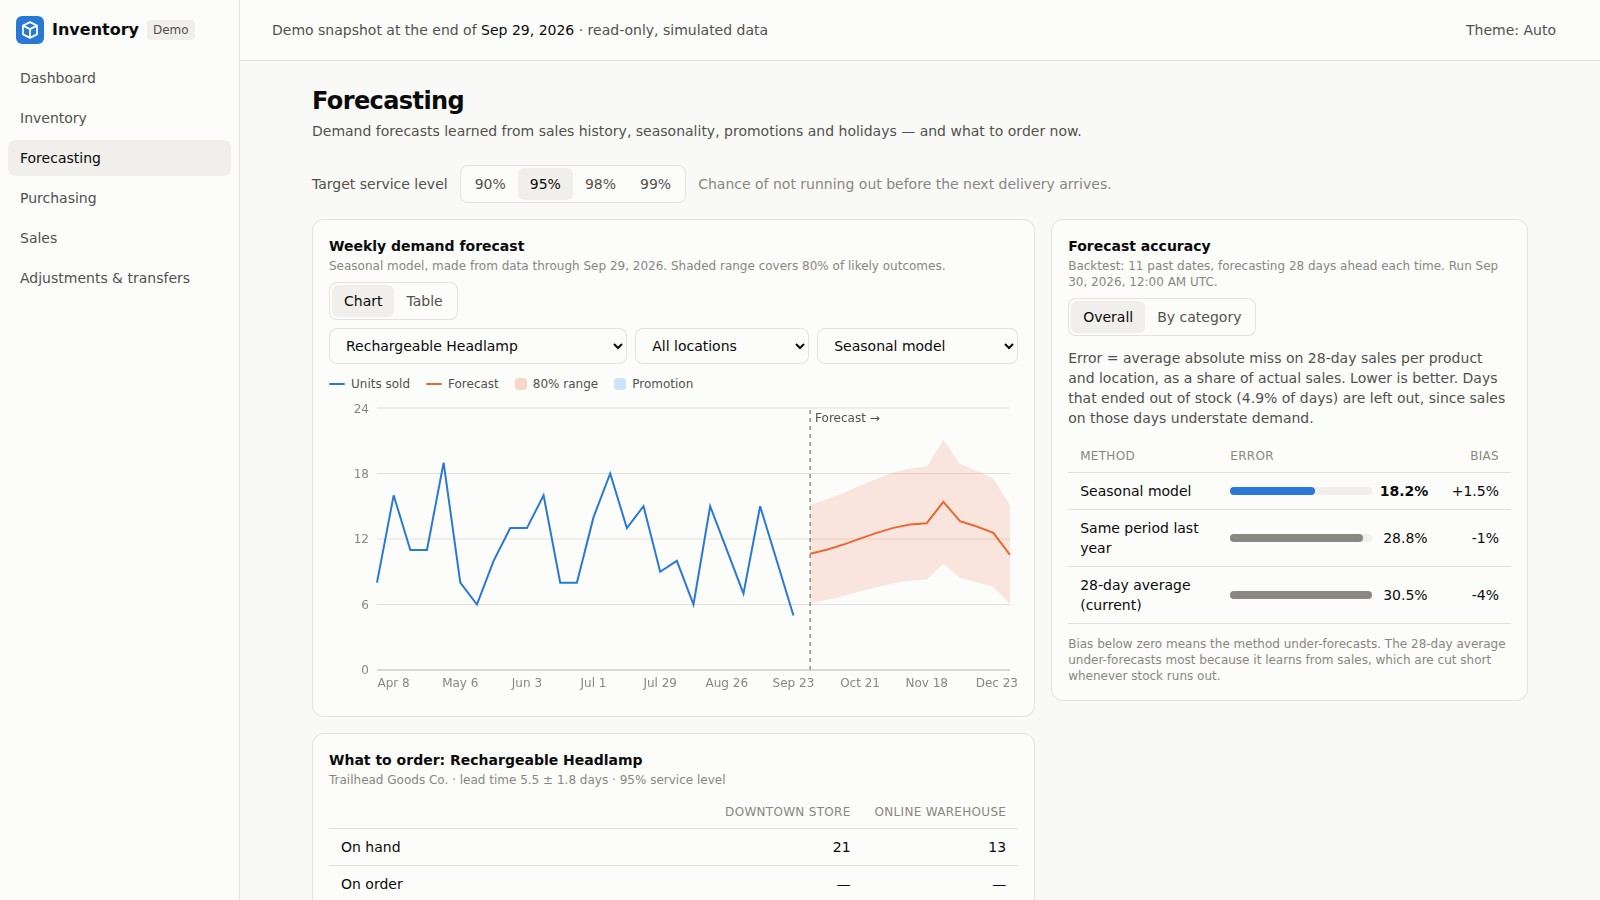
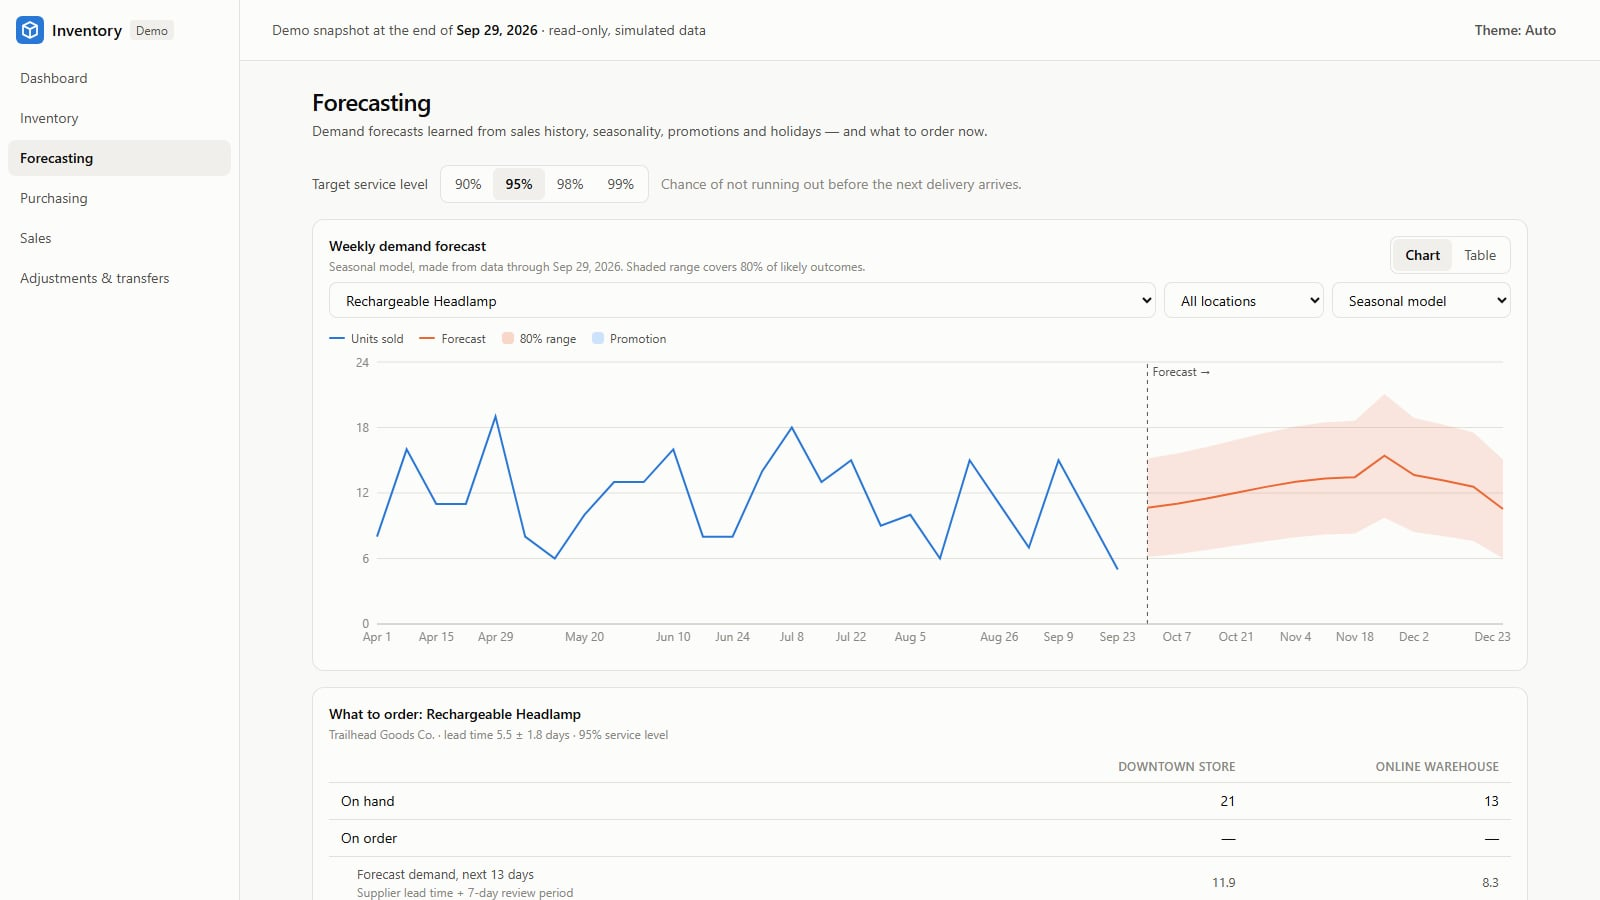
Added new screenshots for demos

diff --git a/src/assets/less/work.less b/src/assets/less/work.less
@@ -488,9 +488,11 @@
 
         .cs-rag-badge {
             align-self: flex-start;
+            flex: none;
             padding: (6/16rem) (12/16rem);
             font-size: (12/16rem);
             font-weight: 700;
+            white-space: nowrap;
             border-radius: (20/16rem);
             color: var(--primary);
             background-color: rgba(2, 119, 182, 0.1);

diff --git a/src/content/work/customer-service-rag-assistant.md b/src/content/work/customer-service-rag-assistant.md
@@ -17,8 +17,8 @@ stack:
     - LLM
     - Vector search
     - RAG
-image: /assets/images/work/customer-service-assistant.jpg # TODO: replace with a screenshot (1600x900 works well)
-imageAlt: Illustration of an AI assistant answering a customer question
+image: /assets/images/work/customer-service-assistant.jpg
+imageAlt: The assistant answering "Can I return a bike after I've ridden it?", showing the passages it retrieved with relevance scores, a cited answer, and the matching passage highlighted in the bike shop's returns policy
 # ── Demo ─────────────────────────────────────────────────────────────────────
 # interactiveDemo: rag replays pre-recorded pipeline outputs from src/_data/ragDemo.json
 # (no API calls). Remove it to use demoUrl below instead.

diff --git a/src/content/work/inventory-planning.md b/src/content/work/inventory-planning.md
@@ -17,7 +17,7 @@ stack:
     - React
     - TypeScript
 image: /assets/images/work/inventory-planning-app.jpg
-imageAlt: The inventory app's Forecasting page, showing a weekly demand forecast with its likely range and forecast accuracy by method
+imageAlt: The inventory app's Forecasting page, showing a weekly demand forecast with its likely range and what to order
 demoUrl: /assets/demos/inventory-demo.html # static export from the inventory-management-demo repo (demo/inventory-demo.html)
 demoEmbed: true
 demoAutoload: true # show the app as soon as the page loads, instead of a "Launch live demo" button
